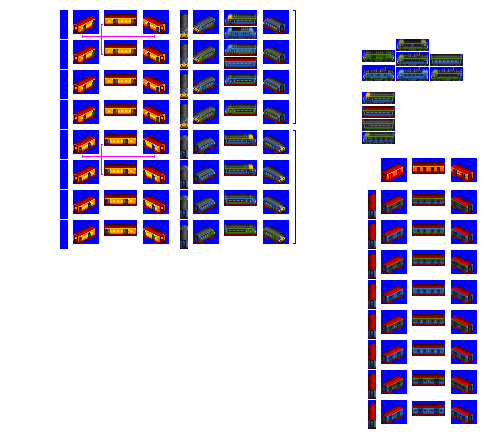
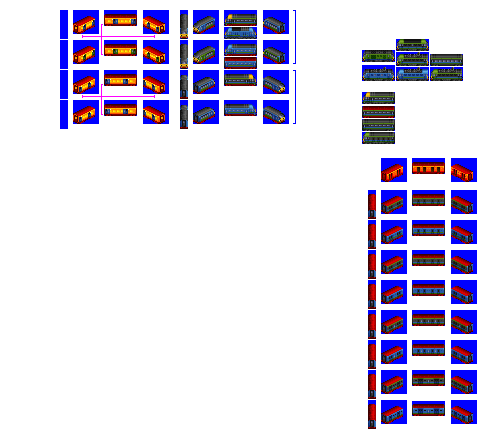
Change: make gen 6 high speed driving cab an explicit buildable vehicle type, not just a livery

Changed region(s): [[0.12, 0.1477, 0.6, 0.5614]]

diff --git a/src/vehicles/driving_cab_high_speed_passenger_pony_gen_6.py b/src/vehicles/driving_cab_high_speed_passenger_pony_gen_6.py
@@ -1,0 +1,21 @@
+from train import PassengerEngineCabControlCarConsist, CabControlPaxCarUnit
+
+
+def main(roster_id):
+    consist = PassengerEngineCabControlCarConsist(
+        roster_id=roster_id,
+        id="driving_cab_high_speed_passenger_pony_gen_6",
+        base_numeric_id=9200,
+        name="High Speed Driving Trailer",
+        role_child_branch_num=-3,  # driving cab cars are probably jokers?
+        gen=6,
+        lgv_capable=True,  # for lolz
+        sprites_complete=True,
+    )
+
+    consist.add_unit(type=CabControlPaxCarUnit, weight=32, chassis="railcar_32px")
+
+    consist.description = """Front or back of a train, up to you. Supplies hotel power for the coaches, so your main loco has more power for traction. Clever idea we had eh?"""
+    consist.foamer_facts = """CAF MK5A Driving Trailer (DT) with added generator"""
+
+    return consist

diff --git a/src/rosters/pony.py b/src/rosters/pony.py
@@ -46,6 +46,7 @@ from vehicles import driving_cab_high_speed_mail_pony_gen_6
 from vehicles import driving_cab_passenger_pony_gen_4
 from vehicles import driving_cab_passenger_pony_gen_5
 from vehicles import driving_cab_high_speed_passenger_pony_gen_5
+from vehicles import driving_cab_high_speed_passenger_pony_gen_6
 from vehicles import dryth
 from vehicles import dynamo
 from vehicles import eastern
@@ -793,6 +794,7 @@ def main():
             driving_cab_passenger_pony_gen_4,
             driving_cab_passenger_pony_gen_5,
             driving_cab_high_speed_passenger_pony_gen_5,
+            driving_cab_high_speed_passenger_pony_gen_6,
             driving_cab_mail_pony_gen_5,
             driving_cab_high_speed_mail_pony_gen_5,
             driving_cab_high_speed_mail_pony_gen_6,

diff --git a/src/train.py b/src/train.py
@@ -1670,11 +1670,7 @@ class PassengerEngineCabControlCarConsist(PassengerEngineConsist):
         # * pax matches pax liveries for generation
         # * mail gets a TPO/RPO striped livery, and a 1CC/2CC duotone livery
         # position based variants
-        # !! CABBAGE BAD JFDI STUFF
-        if self.id == "driving_cab_high_speed_passenger_pony_gen_5":
-            liveries = self.roster.gen_5_pax_liveries
-        else:
-            liveries = self.roster.default_pax_liveries
+        liveries = self.roster.default_pax_liveries
         spriterow_group_mappings = {"default": 0, "first": 0, "last": 1, "special": 0}
         self.gestalt_graphics = GestaltGraphicsConsistPositionDependent(
             spriterow_group_mappings,

diff --git a/src/vehicles/driving_cab_high_speed_mail_pony_gen_6.py b/src/vehicles/driving_cab_high_speed_mail_pony_gen_6.py
@@ -7,7 +7,7 @@ def main(roster_id):
         id="driving_cab_high_speed_mail_pony_gen_6",
         base_numeric_id=13030,
         name="High Speed Driving Van Trailer",
-        role_child_branch_num=-2,  # driving cab cars are probably jokers?
+        role_child_branch_num=-3,  # driving cab cars are probably jokers?
         gen=6,
         lgv_capable=True,
         sprites_complete=True,
